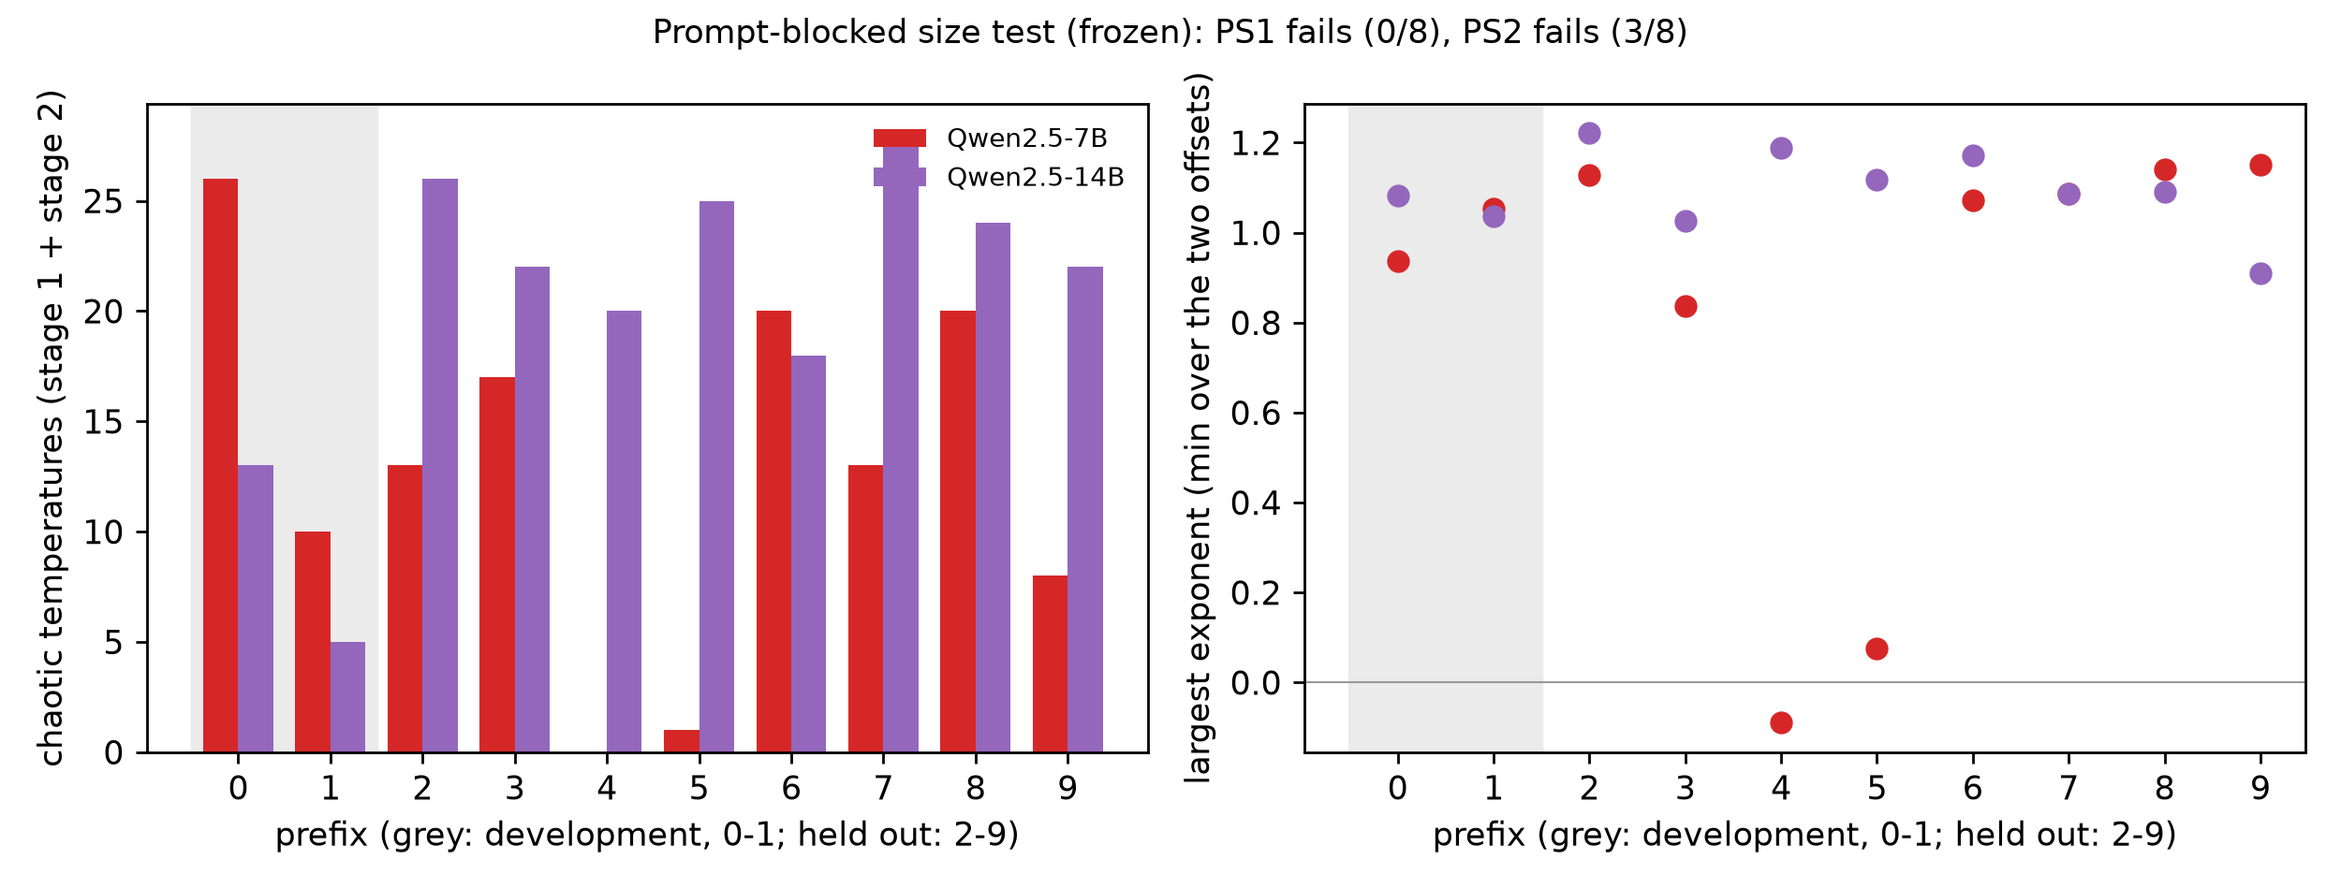
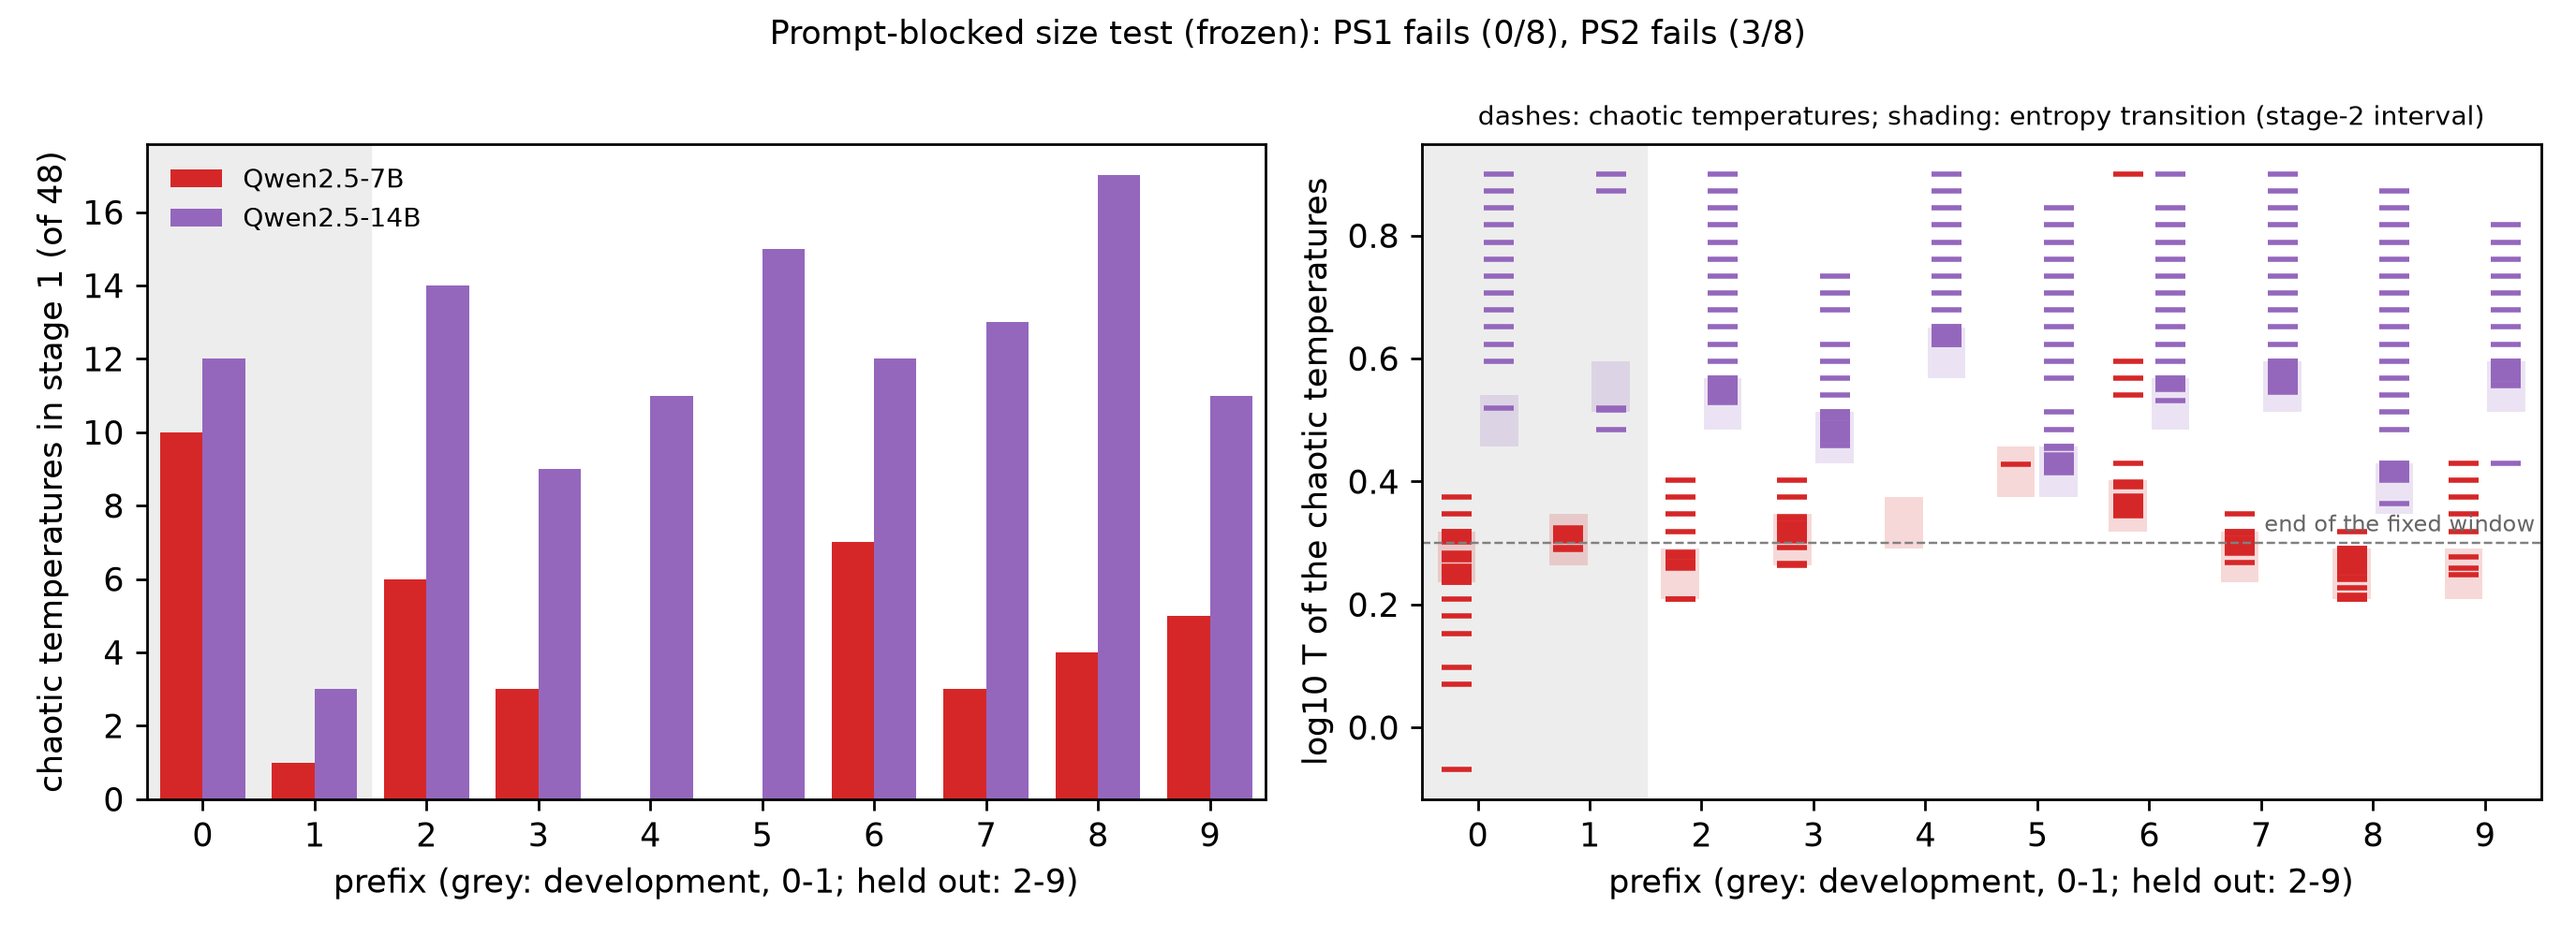
Prefix-test figure: primary endpoint (stage 1) and the location of chaos relative to each model's entropy transition

diff --git a/tools/prefix_scale_score.py b/tools/prefix_scale_score.py
@@ -82,20 +82,29 @@ def main():
     matplotlib.use("Agg")
     import matplotlib.pyplot as plt
 
-    fig, (ax, bx) = plt.subplots(1, 2, figsize=(10, 3.8))
-    for k, (m, colour, label) in enumerate((("qwen7b", "tab:red", "Qwen2.5-7B"), ("qwen14b", "tab:purple", "Qwen2.5-14B"))):
+    fig, (ax, bx) = plt.subplots(1, 2, figsize=(11, 4.0))
+    styles = (("qwen7b", "tab:red", "Qwen2.5-7B", -0.19), ("qwen14b", "tab:purple", "Qwen2.5-14B", 0.19))
+    for m, colour, label, dx in styles:
         xs = [i for i in range(10) if table[m][i] is not None]
-        ax.bar([x + (k - 0.5) * 0.38 for x in xs], [table[m][i]["C1"] + table[m][i]["C2"] for i in xs], 0.38,
-               color=colour, label=label)
-        bx.plot(xs, [table[m][i]["M"] for i in xs], "o", color=colour, label=label)
+        ax.bar([x + dx for x in xs], [table[m][i]["C1"] for i in xs], 0.38, color=colour, label=label)
+        for i in xs:
+            e = table[m][i]
+            lo, hi = e["stage2_log10T"]
+            bx.add_patch(plt.Rectangle((i + dx - 0.17, lo), 0.34, hi - lo, color=colour, alpha=0.18, lw=0))
+            pts = e["chaotic_log10T"]
+            bx.plot([i + dx] * len(pts), pts, "_", color=colour, ms=9, mew=1.6)
     for a in (ax, bx):
-        a.axvspan(-0.5, 1.5, color="0.92", zorder=0)
+        a.axvspan(-0.5, 1.5, color="0.93", zorder=0)
         a.set_xticks(range(10))
+        a.set_xlim(-0.5, 9.5)
         a.set_xlabel("prefix (grey: development, 0-1; held out: 2-9)")
-    ax.set_ylabel("chaotic temperatures (stage 1 + stage 2)")
-    bx.axhline(0, color="0.6", lw=0.6)
-    bx.set_ylabel("largest exponent (min over the two offsets)")
-    ax.legend(fontsize=8, frameon=False)
+    ax.set_ylabel("chaotic temperatures in stage 1 (of 48)")
+    ax.legend(fontsize=8, frameon=False, loc="upper left")
+    bx.set_ylabel("log10 T of the chaotic temperatures")
+    bx.axhline(0.3, color="0.5", lw=0.7, ls="--")
+    bx.text(9.45, 0.31, "end of the fixed window", fontsize=7, ha="right", va="bottom", color="0.4")
+    bx.set_title("dashes: chaotic temperatures; shading: entropy transition (stage-2 interval)",
+                 fontsize=8)
     sc = result["score"]
     fig.suptitle(f"Prompt-blocked size test (frozen): PS1 {sc['PS1']} ({sc['PS1_successes']}/8), "
                  f"PS2 {sc['PS2']} ({sc['PS2_successes']}/8)", fontsize=10)
